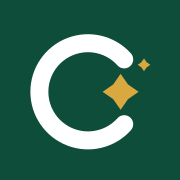
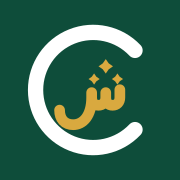
الشعار: حرف C وفي داخله حرف ش بنقاط ذهبية
Claude-Session: https://claude.ai/code/session_01GDtKRX7bU5fWy1HLnRBQwR

Changed region(s): [[0.1389, 0.1111, 0.8333, 0.8889]]

diff --git a/index.html b/index.html
@@ -9,7 +9,7 @@
 <meta name="apple-mobile-web-app-capable" content="yes">
 <meta name="apple-mobile-web-app-title" content="اشريلي">
 <link rel="apple-touch-icon" href="apple-touch-icon.png">
-<link rel="icon" type="image/png" href="icon-c-192.png">
+<link rel="icon" type="image/png" href="icon-cs-192.png">
 
 <link rel="preconnect" href="https://fonts.googleapis.com">
 <link href="https://fonts.googleapis.com/css2?family=Reem+Kufi:wght@700&family=Montserrat:wght@600&family=Tajawal:wght@400;500;700;800&display=swap" rel="stylesheet">
@@ -136,7 +136,7 @@ header.top{position:sticky;top:0;z-index:20;background:rgba(251,247,238,.92);bac
 <!-- ===== شاشة الدخول ===== -->
 <section id="auth" class="hidden">
   <div class="auth-card">
-    <div class="logo"><div class="logo-mark"><svg viewBox="0 0 200 200" width="78%" height="78%" aria-hidden="true"><path d="M138 66 A54 54 0 1 0 138 138" fill="none" stroke="#FFFFFF" stroke-width="20" stroke-linecap="round"/><path d="M134 82 l8.2 11.8 11.8 8.2 -11.8 8.2 -8.2 11.8 -8.2 -11.8 -11.8 -8.2 11.8 -8.2z" fill="#D9A93F"/><path d="M160 65 l2.9 4.1 4.1 2.9 -4.1 2.9 -2.9 4.1 -2.9 -4.1 -4.1 -2.9 4.1 -2.9z" fill="#D9A93F"/></svg></div><div><h1>اشريلي</h1><small>CHRILI</small></div></div>
+    <div class="logo"><div class="logo-mark"><svg viewBox="0 0 200 200" width="86%" height="86%" aria-hidden="true"><path d="M150 56 A64 64 0 1 0 150 144" fill="none" stroke="#FFFFFF" stroke-width="17" stroke-linecap="round"/><g transform="translate(50 50) scale(0.54)"><path d="M154 92 V108 C154 118 148 124 139 124 C130 124 125 118 125 108 V98 M125 108 C125 118 119 124 110 124 C101 124 96 118 96 108 V98 M96 108 C96 146 78 164 58 164 C40 164 30 152 30 134" fill="none" stroke="#D9A93F" stroke-width="22" stroke-linecap="round" stroke-linejoin="round"/><path d="M125 29 l6.1 8.8 8.8 6.1 -8.8 6.1 -6.1 8.8 -6.1 -8.8 -8.8 -6.1 8.8 -6.1z" fill="#D9A93F"/><path d="M101 58.5 l4.7 6.8 6.8 4.7 -6.8 4.7 -4.7 6.8 -4.7 -6.8 -6.8 -4.7 6.8 -4.7z" fill="#D9A93F"/><path d="M149 58.5 l4.7 6.8 6.8 4.7 -6.8 4.7 -4.7 6.8 -4.7 -6.8 -6.8 -4.7 6.8 -4.7z" fill="#D9A93F"/></g></svg></div><div><h1>اشريلي</h1><small>CHRILI</small></div></div>
     <p class="tagline">تسوّق مباشرة من واجهات مشاهيرك المفضلين</p>
     <div class="tabs">
       <button id="tabLogin" class="on" onclick="setTab('login')">تسجيل الدخول</button>
@@ -168,7 +168,7 @@ header.top{position:sticky;top:0;z-index:20;background:rgba(251,247,238,.92);bac
 <!-- ===== التطبيق ===== -->
 <div id="app" class="hidden">
   <header class="top"><div class="top-in">
-    <div class="logo" onclick="go('home')" style="cursor:pointer"><div class="logo-mark"><svg viewBox="0 0 200 200" width="78%" height="78%" aria-hidden="true"><path d="M138 66 A54 54 0 1 0 138 138" fill="none" stroke="#FFFFFF" stroke-width="20" stroke-linecap="round"/><path d="M134 82 l8.2 11.8 11.8 8.2 -11.8 8.2 -8.2 11.8 -8.2 -11.8 -11.8 -8.2 11.8 -8.2z" fill="#D9A93F"/><path d="M160 65 l2.9 4.1 4.1 2.9 -4.1 2.9 -2.9 4.1 -2.9 -4.1 -4.1 -2.9 4.1 -2.9z" fill="#D9A93F"/></svg></div><div><h1>اشريلي</h1><small>CHRILI</small></div></div>
+    <div class="logo" onclick="go('home')" style="cursor:pointer"><div class="logo-mark"><svg viewBox="0 0 200 200" width="86%" height="86%" aria-hidden="true"><path d="M150 56 A64 64 0 1 0 150 144" fill="none" stroke="#FFFFFF" stroke-width="17" stroke-linecap="round"/><g transform="translate(50 50) scale(0.54)"><path d="M154 92 V108 C154 118 148 124 139 124 C130 124 125 118 125 108 V98 M125 108 C125 118 119 124 110 124 C101 124 96 118 96 108 V98 M96 108 C96 146 78 164 58 164 C40 164 30 152 30 134" fill="none" stroke="#D9A93F" stroke-width="22" stroke-linecap="round" stroke-linejoin="round"/><path d="M125 29 l6.1 8.8 8.8 6.1 -8.8 6.1 -6.1 8.8 -6.1 -8.8 -8.8 -6.1 8.8 -6.1z" fill="#D9A93F"/><path d="M101 58.5 l4.7 6.8 6.8 4.7 -6.8 4.7 -4.7 6.8 -4.7 -6.8 -6.8 -4.7 6.8 -4.7z" fill="#D9A93F"/><path d="M149 58.5 l4.7 6.8 6.8 4.7 -6.8 4.7 -4.7 6.8 -4.7 -6.8 -6.8 -4.7 6.8 -4.7z" fill="#D9A93F"/></g></svg></div><div><h1>اشريلي</h1><small>CHRILI</small></div></div>
     <div class="spacer"></div>
     <button class="icon-btn hidden" id="wsBtn" aria-label="واجهتي"></button>
     <button class="icon-btn" onclick="go('orders')" title="طلباتي">📦</button>

diff --git a/admin.html b/admin.html
@@ -162,7 +162,7 @@ header.top{position:sticky;top:0;z-index:20;background:rgba(251,247,238,.92);bac
 <!-- ===== دخول المدير ===== -->
 <section id="auth" class="hidden">
   <div class="auth-card">
-    <div class="logo"><div class="logo-mark"><svg viewBox="0 0 200 200" width="78%" height="78%" aria-hidden="true"><path d="M138 66 A54 54 0 1 0 138 138" fill="none" stroke="#FFFFFF" stroke-width="20" stroke-linecap="round"/><path d="M134 82 l8.2 11.8 11.8 8.2 -11.8 8.2 -8.2 11.8 -8.2 -11.8 -11.8 -8.2 11.8 -8.2z" fill="#D9A93F"/><path d="M160 65 l2.9 4.1 4.1 2.9 -4.1 2.9 -2.9 4.1 -2.9 -4.1 -4.1 -2.9 4.1 -2.9z" fill="#D9A93F"/></svg></div><div><h1>اشريلي</h1><small style="font-family:Tajawal,sans-serif;letter-spacing:0">لوحة التحكم</small></div></div>
+    <div class="logo"><div class="logo-mark"><svg viewBox="0 0 200 200" width="86%" height="86%" aria-hidden="true"><path d="M150 56 A64 64 0 1 0 150 144" fill="none" stroke="#FFFFFF" stroke-width="17" stroke-linecap="round"/><g transform="translate(50 50) scale(0.54)"><path d="M154 92 V108 C154 118 148 124 139 124 C130 124 125 118 125 108 V98 M125 108 C125 118 119 124 110 124 C101 124 96 118 96 108 V98 M96 108 C96 146 78 164 58 164 C40 164 30 152 30 134" fill="none" stroke="#D9A93F" stroke-width="22" stroke-linecap="round" stroke-linejoin="round"/><path d="M125 29 l6.1 8.8 8.8 6.1 -8.8 6.1 -6.1 8.8 -6.1 -8.8 -8.8 -6.1 8.8 -6.1z" fill="#D9A93F"/><path d="M101 58.5 l4.7 6.8 6.8 4.7 -6.8 4.7 -4.7 6.8 -4.7 -6.8 -6.8 -4.7 6.8 -4.7z" fill="#D9A93F"/><path d="M149 58.5 l4.7 6.8 6.8 4.7 -6.8 4.7 -4.7 6.8 -4.7 -6.8 -6.8 -4.7 6.8 -4.7z" fill="#D9A93F"/></g></svg></div><div><h1>اشريلي</h1><small style="font-family:Tajawal,sans-serif;letter-spacing:0">لوحة التحكم</small></div></div>
     <p class="tagline">دخول خاص بمدير التطبيق</p>
     <form onsubmit="doLogin(event)">
       <label>رقم الهاتف</label>
@@ -189,7 +189,7 @@ header.top{position:sticky;top:0;z-index:20;background:rgba(251,247,238,.92);bac
 <!-- ===== اللوحة ===== -->
 <div id="app" class="hidden">
   <header class="top"><div class="top-in">
-    <div class="logo"><div class="logo-mark"><svg viewBox="0 0 200 200" width="78%" height="78%" aria-hidden="true"><path d="M138 66 A54 54 0 1 0 138 138" fill="none" stroke="#FFFFFF" stroke-width="20" stroke-linecap="round"/><path d="M134 82 l8.2 11.8 11.8 8.2 -11.8 8.2 -8.2 11.8 -8.2 -11.8 -11.8 -8.2 11.8 -8.2z" fill="#D9A93F"/><path d="M160 65 l2.9 4.1 4.1 2.9 -4.1 2.9 -2.9 4.1 -2.9 -4.1 -4.1 -2.9 4.1 -2.9z" fill="#D9A93F"/></svg></div><div><h1>لوحة اشريلي</h1><small style="letter-spacing:3px">CHRILI</small></div></div>
+    <div class="logo"><div class="logo-mark"><svg viewBox="0 0 200 200" width="86%" height="86%" aria-hidden="true"><path d="M150 56 A64 64 0 1 0 150 144" fill="none" stroke="#FFFFFF" stroke-width="17" stroke-linecap="round"/><g transform="translate(50 50) scale(0.54)"><path d="M154 92 V108 C154 118 148 124 139 124 C130 124 125 118 125 108 V98 M125 108 C125 118 119 124 110 124 C101 124 96 118 96 108 V98 M96 108 C96 146 78 164 58 164 C40 164 30 152 30 134" fill="none" stroke="#D9A93F" stroke-width="22" stroke-linecap="round" stroke-linejoin="round"/><path d="M125 29 l6.1 8.8 8.8 6.1 -8.8 6.1 -6.1 8.8 -6.1 -8.8 -8.8 -6.1 8.8 -6.1z" fill="#D9A93F"/><path d="M101 58.5 l4.7 6.8 6.8 4.7 -6.8 4.7 -4.7 6.8 -4.7 -6.8 -6.8 -4.7 6.8 -4.7z" fill="#D9A93F"/><path d="M149 58.5 l4.7 6.8 6.8 4.7 -6.8 4.7 -4.7 6.8 -4.7 -6.8 -6.8 -4.7 6.8 -4.7z" fill="#D9A93F"/></g></svg></div><div><h1>لوحة اشريلي</h1><small style="letter-spacing:3px">CHRILI</small></div></div>
     <div class="spacer"></div>
     <a class="icon-btn" href="index.html?shop=1" title="المتجر" style="text-decoration:none">🛍</a>
     <button class="icon-btn" onclick="askLogout()" title="خروج">⎋</button>

diff --git a/merchant.html b/merchant.html
@@ -5,7 +5,7 @@
 <meta name="viewport" content="width=device-width, initial-scale=1">
 <title>اشريلي — بوابة الشركاء</title>
 <meta name="theme-color" content="#0E4D3A">
-<link rel="icon" type="image/png" href="icon-c-192.png">
+<link rel="icon" type="image/png" href="icon-cs-192.png">
 <link rel="apple-touch-icon" href="apple-touch-icon.png">
 <link rel="preconnect" href="https://fonts.googleapis.com">
 <link href="https://fonts.googleapis.com/css2?family=Reem+Kufi:wght@700&family=Tajawal:wght@400;500;700;800&display=swap" rel="stylesheet">
@@ -130,7 +130,7 @@ const SUPABASE_KEY = 'sb_publishable_VTNKZA6xE9jGqQvCDk4yow_2tn5uvqu';
 const db = supabase.createClient(SUPABASE_URL, SUPABASE_KEY);
 const $ = id => document.getElementById(id);
 const esc = s => String(s ?? '').replace(/[&<>"']/g, c => ({'&':'&amp;','<':'&lt;','>':'&gt;','"':'&quot;',"'":'&#39;'}[c]));
-const TENT = '<svg viewBox="0 0 200 200" width="78%" height="78%" aria-hidden="true"><path d="M138 66 A54 54 0 1 0 138 138" fill="none" stroke="#FFFFFF" stroke-width="20" stroke-linecap="round"/><path d="M134 82 l8.2 11.8 11.8 8.2 -11.8 8.2 -8.2 11.8 -8.2 -11.8 -11.8 -8.2 11.8 -8.2z" fill="#D9A93F"/><path d="M160 65 l2.9 4.1 4.1 2.9 -4.1 2.9 -2.9 4.1 -2.9 -4.1 -4.1 -2.9 4.1 -2.9z" fill="#D9A93F"/></svg>';
+const TENT = '<svg viewBox="0 0 200 200" width="86%" height="86%" aria-hidden="true"><path d="M150 56 A64 64 0 1 0 150 144" fill="none" stroke="#FFFFFF" stroke-width="17" stroke-linecap="round"/><g transform="translate(50 50) scale(0.54)"><path d="M154 92 V108 C154 118 148 124 139 124 C130 124 125 118 125 108 V98 M125 108 C125 118 119 124 110 124 C101 124 96 118 96 108 V98 M96 108 C96 146 78 164 58 164 C40 164 30 152 30 134" fill="none" stroke="#D9A93F" stroke-width="22" stroke-linecap="round" stroke-linejoin="round"/><path d="M125 29 l6.1 8.8 8.8 6.1 -8.8 6.1 -6.1 8.8 -6.1 -8.8 -8.8 -6.1 8.8 -6.1z" fill="#D9A93F"/><path d="M101 58.5 l4.7 6.8 6.8 4.7 -6.8 4.7 -4.7 6.8 -4.7 -6.8 -6.8 -4.7 6.8 -4.7z" fill="#D9A93F"/><path d="M149 58.5 l4.7 6.8 6.8 4.7 -6.8 4.7 -4.7 6.8 -4.7 -6.8 -6.8 -4.7 6.8 -4.7z" fill="#D9A93F"/></g></svg>';
 $('mk1').innerHTML = TENT; $('mk2').innerHTML = TENT;
 
 const PREP = { pending:['جديد — بانتظار التجهيز','#C99A2E'], preparing:['قيد التجهيز','#1f4e79'], ready:['جاهز للاستلام','#2E7D5B'] };
@@ -246,7 +246,7 @@ function beep(){
 function alertNew(n){
   beep(); try { navigator.vibrate && navigator.vibrate([200,100,200]); } catch (e) {}
   toast('🛎 ' + (n > 1 ? n + ' طلبات جديدة' : 'طلب جديد') + '!');
-  try { if ('Notification' in window && Notification.permission === 'granted') new Notification('اشريلي — طلب جديد', { body: 'لديك ' + n + ' منتج بانتظار التجهيز', icon: 'icon-c-192.png' }); } catch (e) {}
+  try { if ('Notification' in window && Notification.permission === 'granted') new Notification('اشريلي — طلب جديد', { body: 'لديك ' + n + ' منتج بانتظار التجهيز', icon: 'icon-cs-192.png' }); } catch (e) {}
   filter = 'todo';
 }
 async function askNotif(){

diff --git a/sw.js b/sw.js
@@ -1,5 +1,5 @@
 // اشريلي — عامل الخدمة: يحفظ واجهة التطبيق ليفتح بسرعة، ولا يحفظ بيانات Supabase
-const CACHE = 'chrili-v10';
+const CACHE = 'chrili-v11';
 const SHELL = ['./', './index.html', './manifest.json', './icon-192.png', './icon-512.png'];
 
 self.addEventListener('install', e => {
